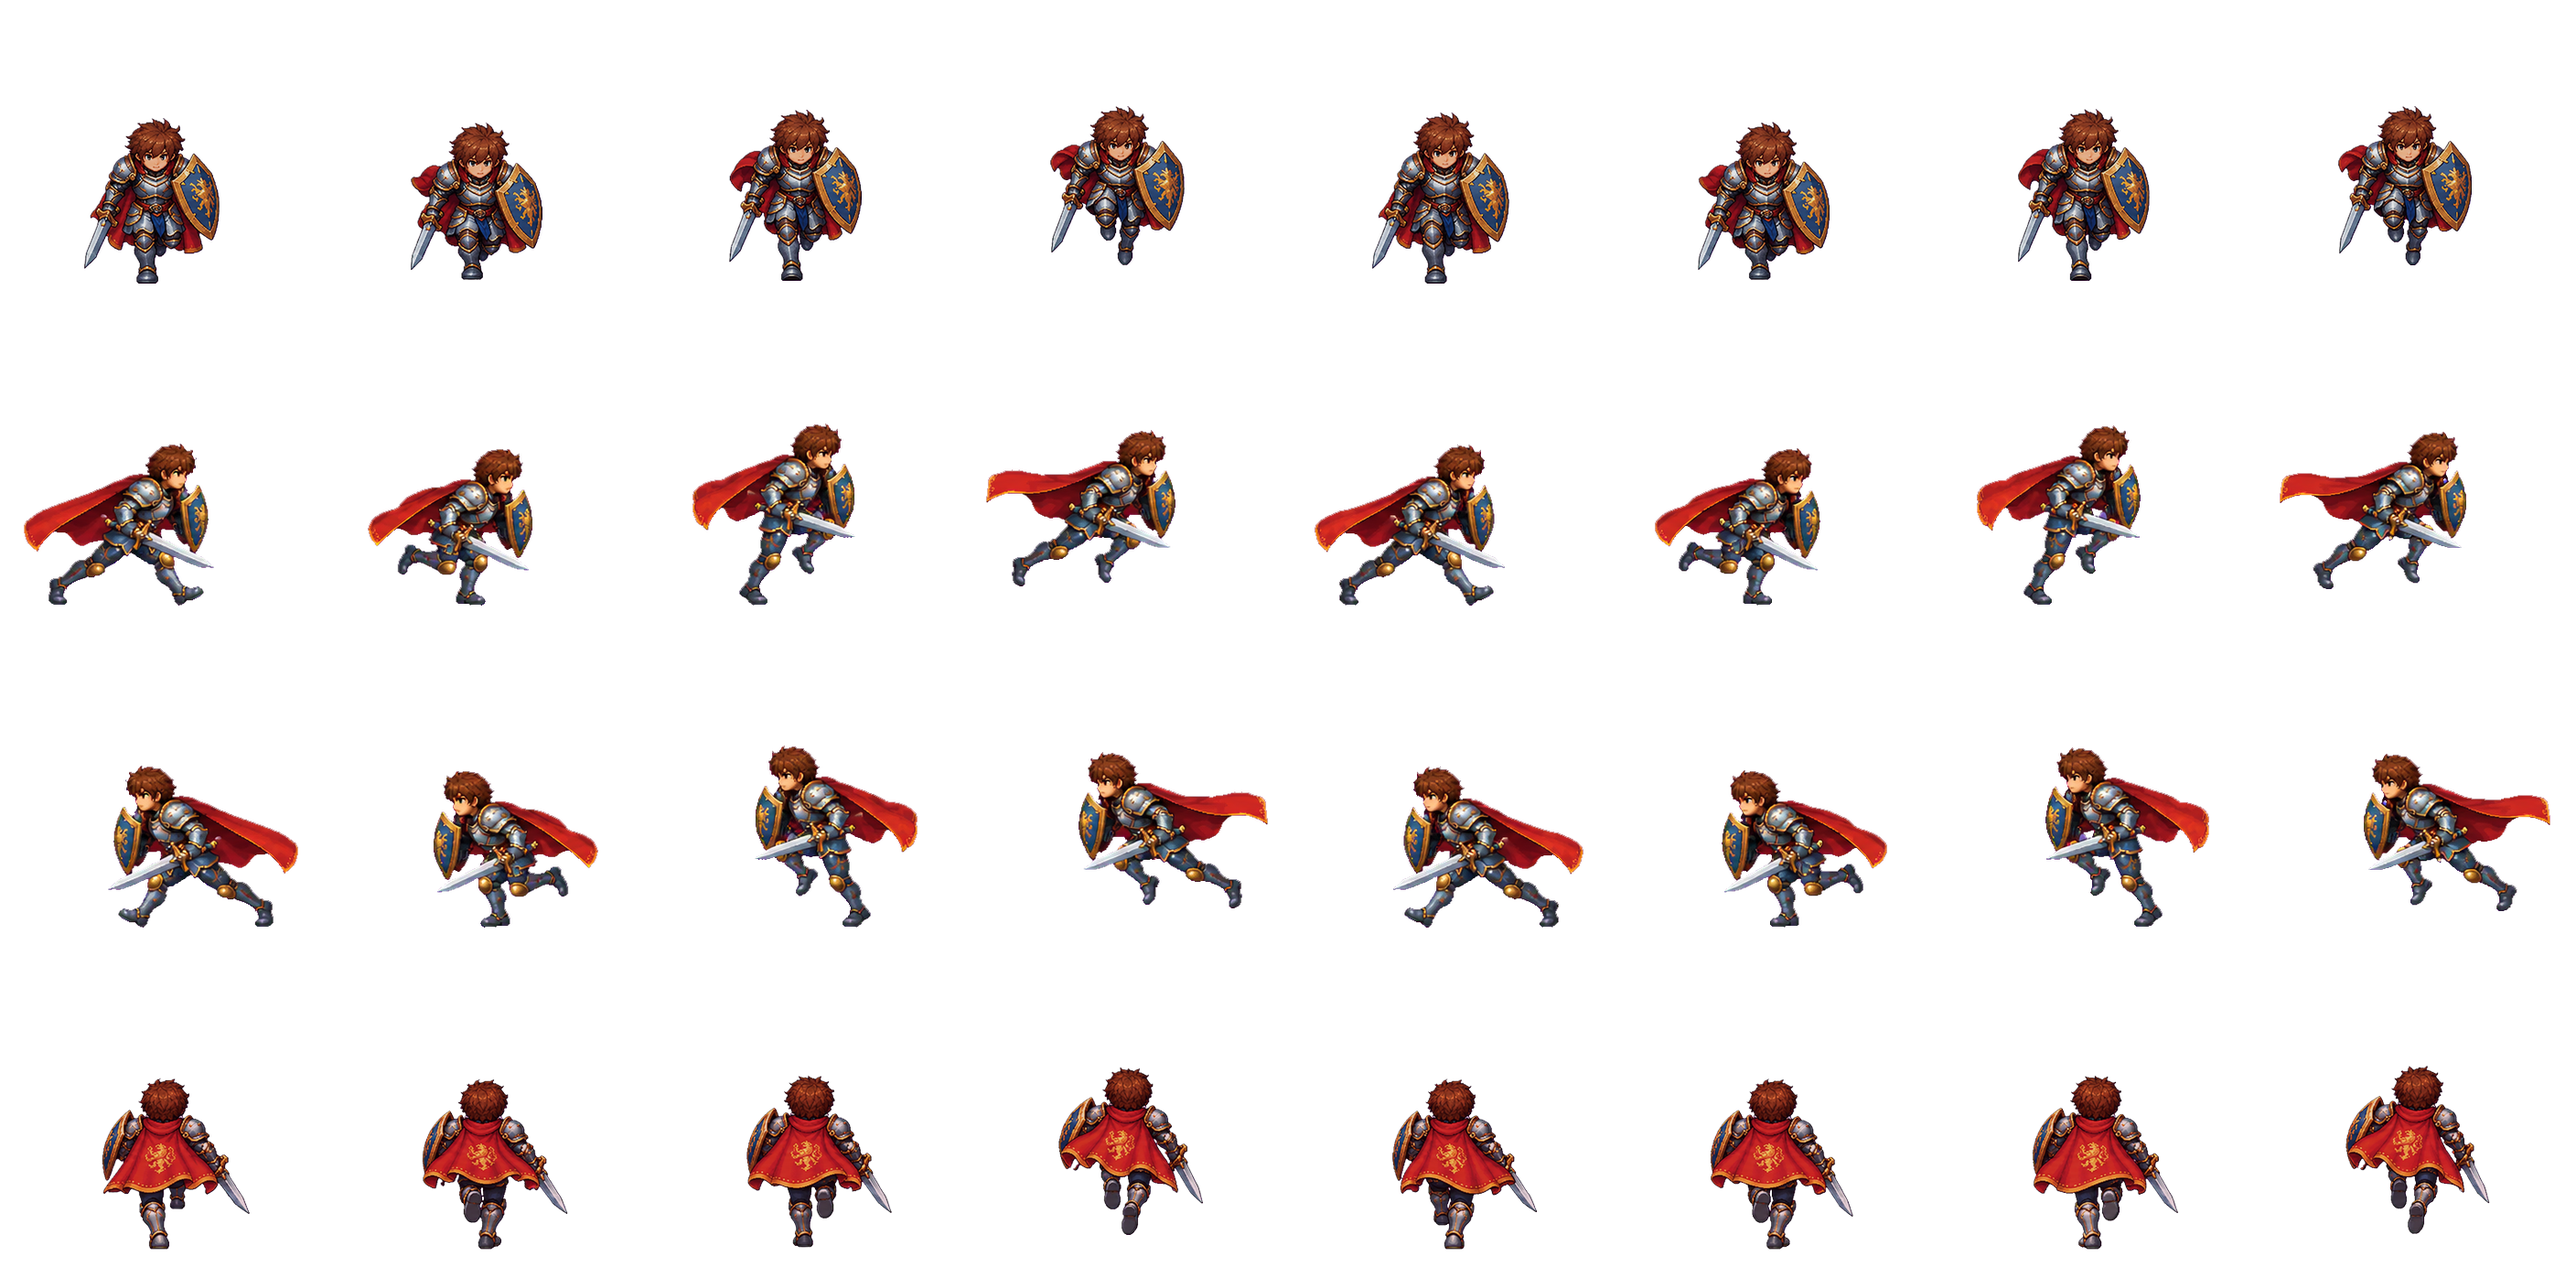
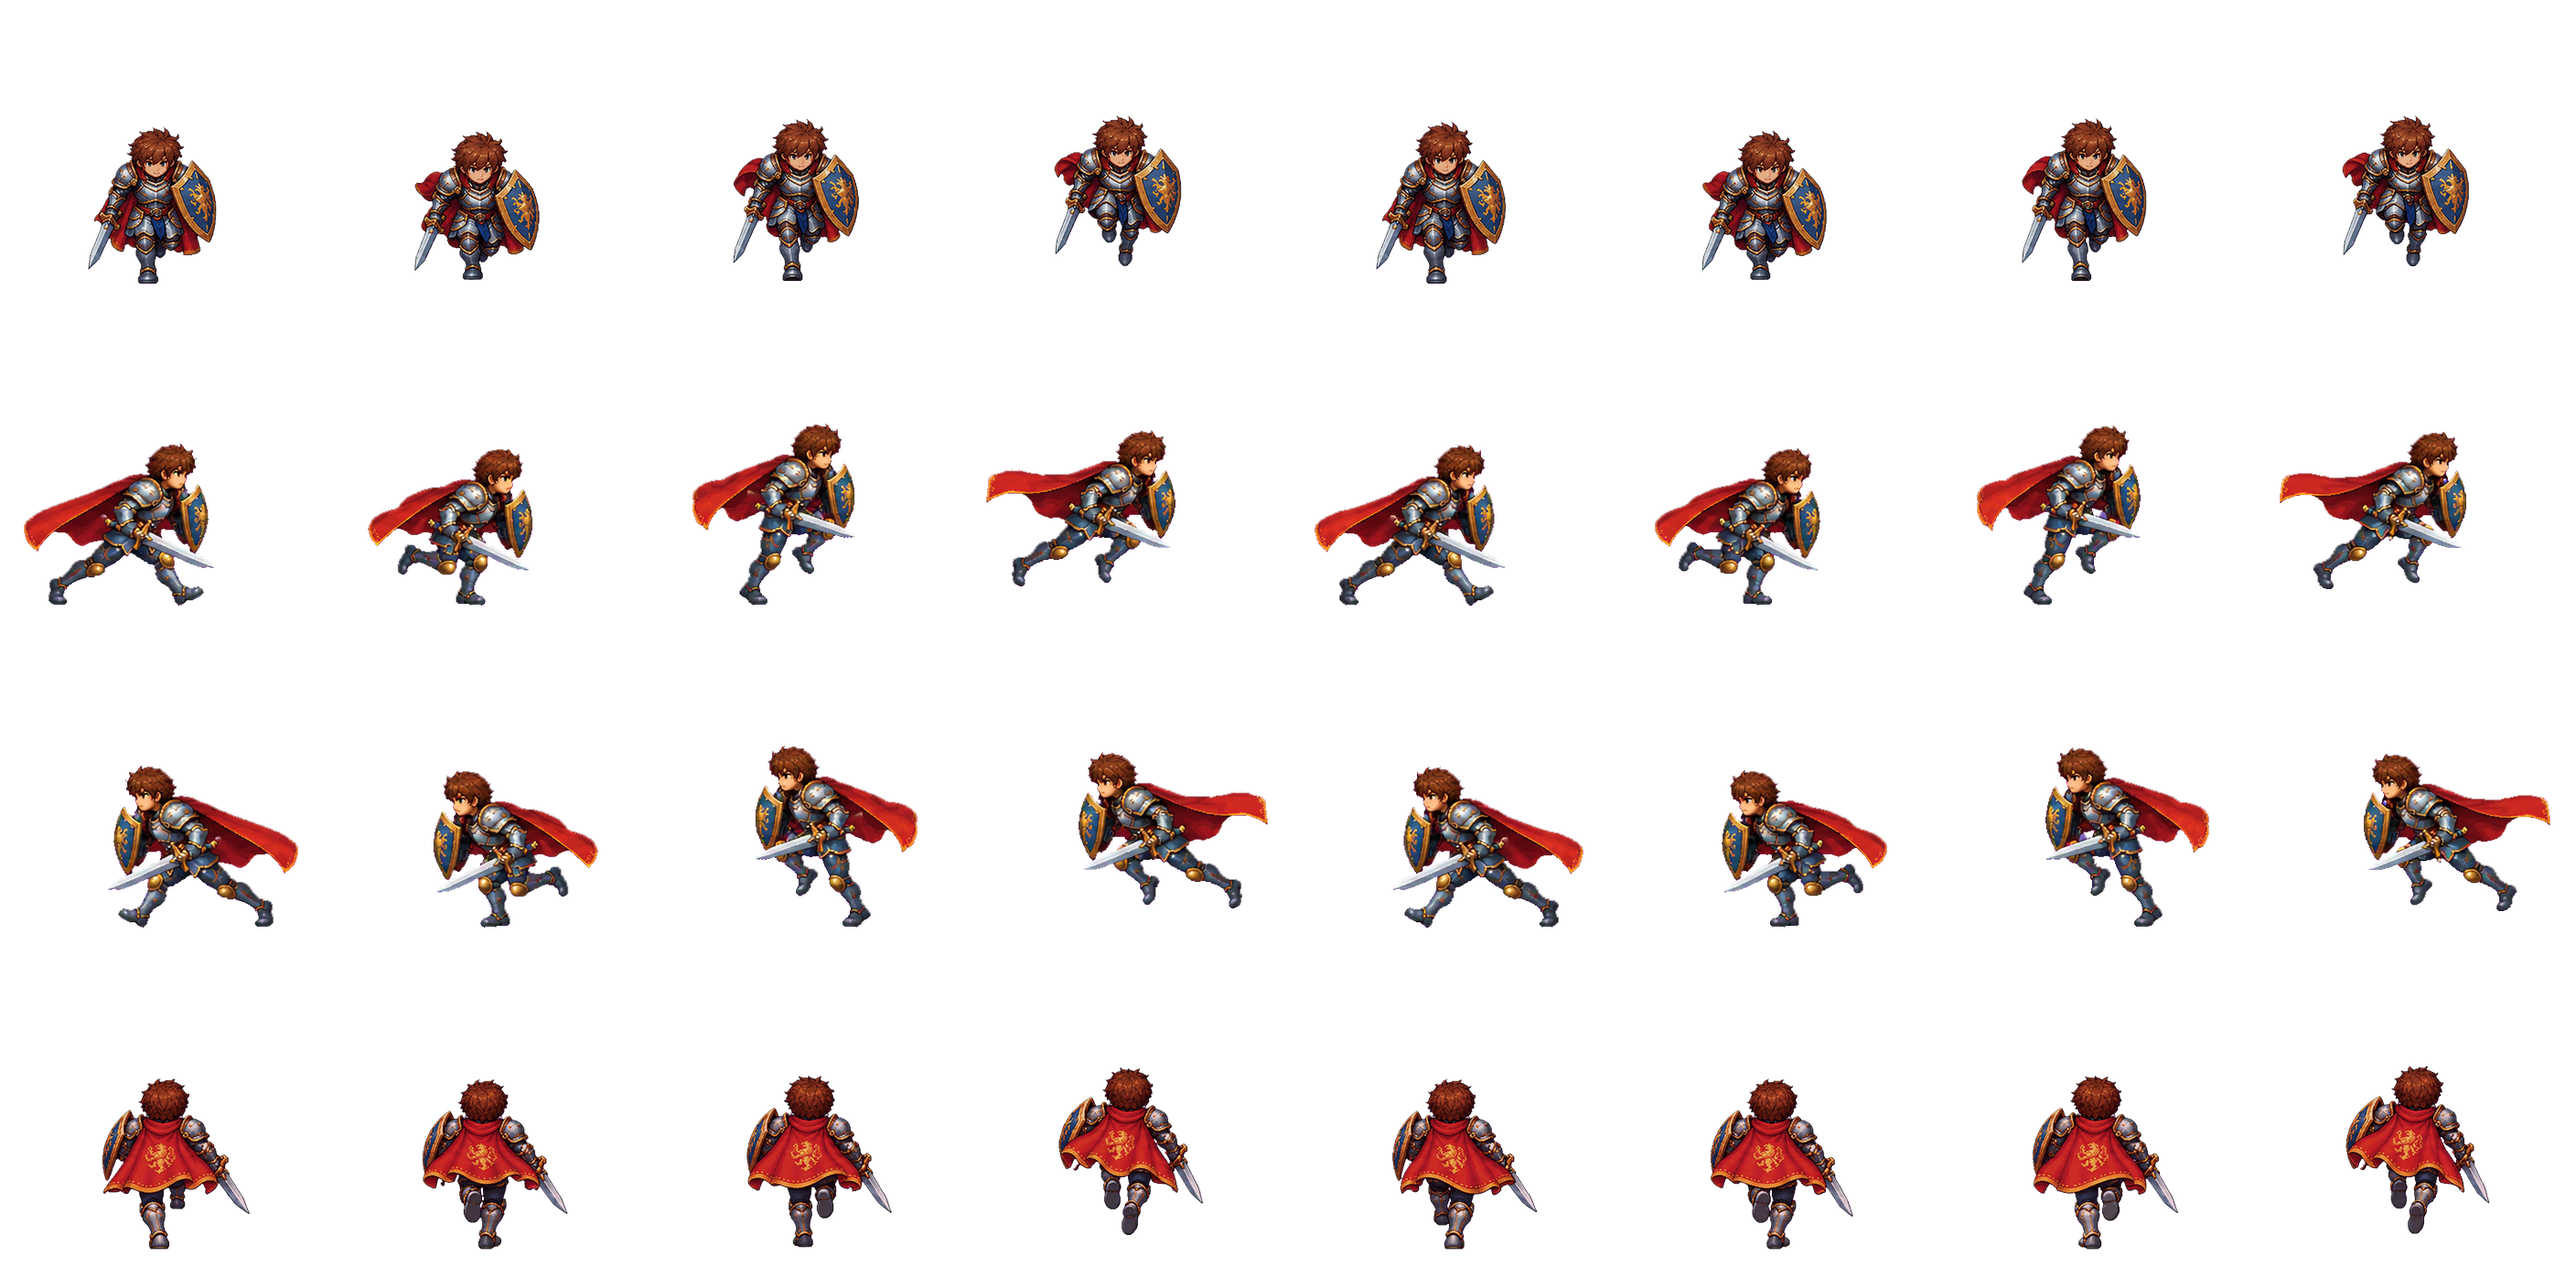
Run: diagonal movement keeps the side-facing run (no flicker to front/back rows); front run row matched to idle size
Claude-Session: https://claude.ai/code/session_019q8CMrxghbNzj8w42KsHoP

diff --git a/src/scenes/LegacyCourtyardScene.ts b/src/scenes/LegacyCourtyardScene.ts
@@ -374,7 +374,7 @@ export class LegacyCourtyardScene extends Phaser.Scene {
     const rooted = b.hard.active(now) && b.hard.kind === 'root';
     const speed = (inp.running ? PHYS.run : PHYS.walk) * b.moveScale(now);
     steer(k, rooted ? 0 : inp.moveX * speed, rooted ? 0 : inp.moveY * speed, ms);
-    if (inp.hasMove && !rooted) this.dir = dirOf(inp.moveX, inp.moveY, this.dir);
+    if (inp.hasMove && !rooted) this.dir = Math.abs(inp.moveX) > 0.05 && Math.abs(inp.moveX) >= 0.45 * Math.abs(inp.moveY) ? (inp.moveX > 0 ? 'right' : 'left') : dirOf(inp.moveX, inp.moveY, this.dir); // diagonals face sideways: no flicker to the front/back rows
     if (inp.takeJump() && k.grounded && !rooted) { jump(k); this.setMode('takeoff'); }
     const sp = Math.hypot(k.vx, k.vy);
     if (!k.grounded) { if (this.mode !== 'takeoff' || this.modeT > PHYS.takeoffMs) this.setMode('air'); return; }
